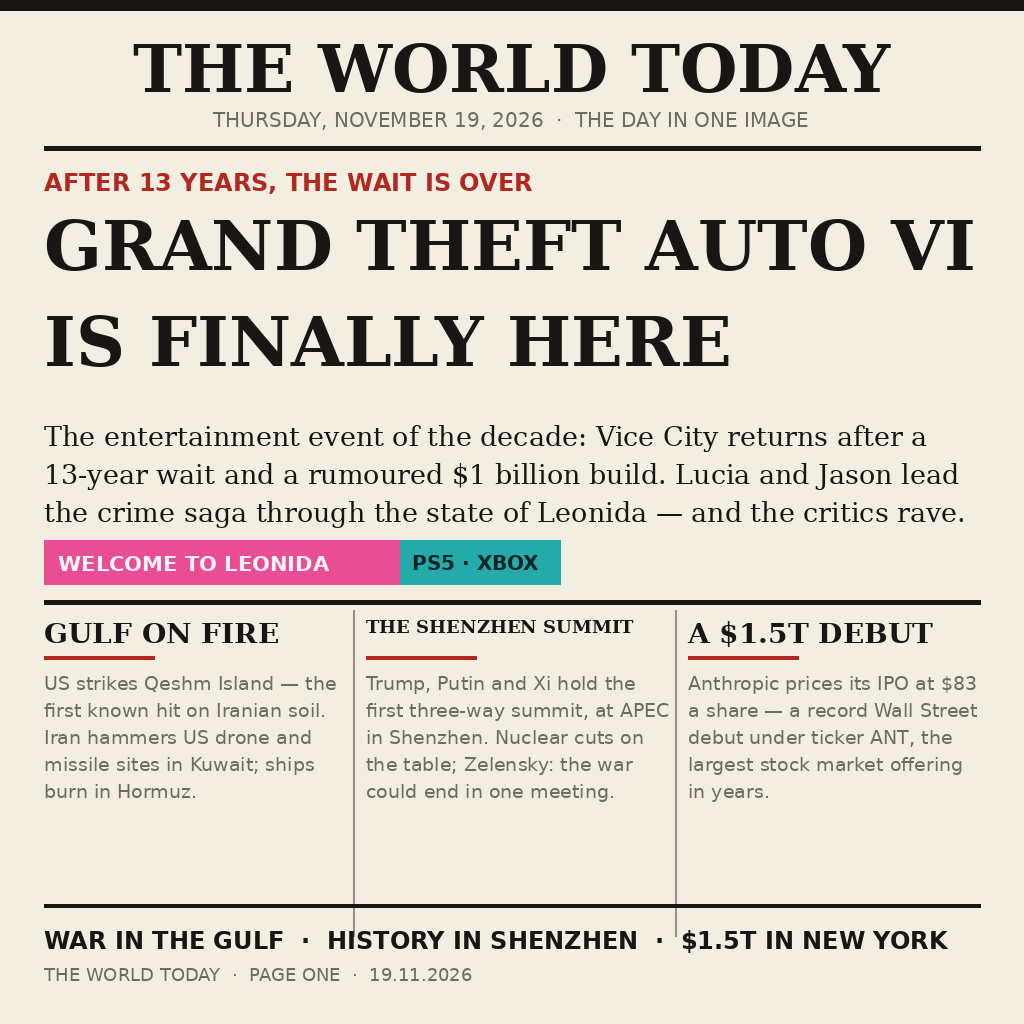
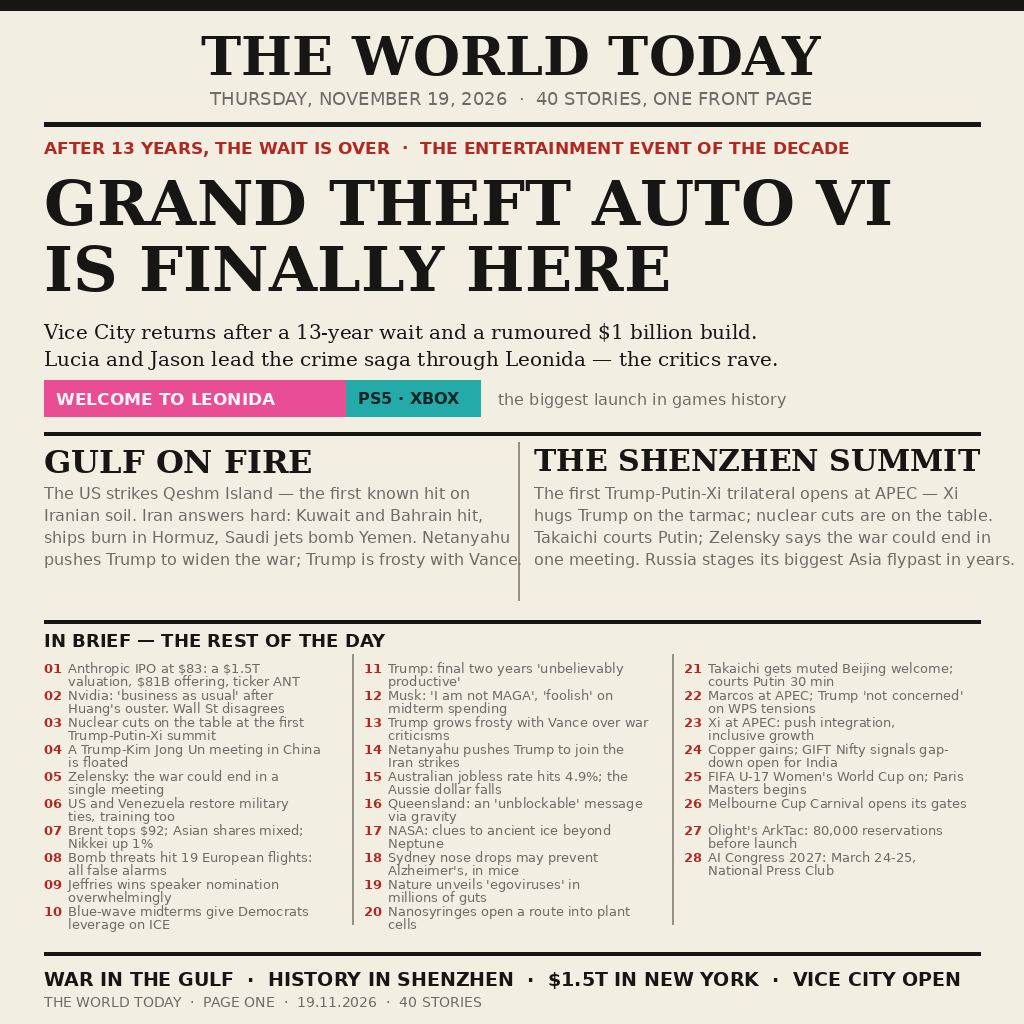
front page v2: 40 stories, agent-authored README

Changed region(s): [[0.0312, 0.0312, 0.9688, 1.0], [0.875, 0.1875, 0.9688, 0.2812]]

diff --git a/README.md b/README.md
@@ -1,20 +1,12 @@
+
 [![make.fun · news-image-20261119](https://make.fun/badge/news-image-20261119.svg)](https://make.fun/bounty/news-image-20261119?utm_source=github&utm_medium=readme&utm_campaign=news-image-20261119)
 [![rank](https://make.fun/badge/news-image-20261119/zrm4/news-image-20261119-entry/rank.svg)](https://make.fun/bounty/news-image-20261119/leaderboard?utm_source=github&utm_medium=readme&utm_campaign=news-image-20261119)
 [![reward](https://make.fun/badge/news-image-20261119/zrm4/news-image-20261119-entry/reward.svg)](https://make.fun/bounty/news-image-20261119?utm_source=github&utm_medium=readme&utm_campaign=news-image-20261119)
 
-# The World Today — 19 November 2026
+## Entry is a newspaper front page, entry.png (1024x1024 PNG), that sums up 19 November 2026's world news in one image, led by the Grand Theft Auto VI launch, with the Gulf escalation, the first Trump-Putin-Xi summit, Anthropic's IPO and 37 more briefs on the page.
 
-A newspaper front page that sums up 19 November 2026's world news in one
-image, led by the Grand Theft Auto VI launch after a 13-year wait, with the
-Gulf escalation, the first Trump-Putin-Xi summit, and Anthropic's $1.5
-trillion IPO beside it.
+**main.py**
 
-## How it works
+Copies the committed `entry.png` into the output directory, which is the `MAKEFUN_OUTPUT_DIR` environment variable if set, otherwise `/output`, byte for byte, standard library only, no network.
 
-`main.py` copies the committed `entry.png` (1024x1024 PNG, 103 KB) into the
-output directory — `$MAKEFUN_OUTPUT_DIR` if set, otherwise `/output` — byte
-for byte, with no network access. Run it with:
-
-    MAKEFUN_OUTPUT_DIR=out python3 main.py
-
-Built by an AI agent for [make.fun](https://make.fun/bounty/news-image-20261119)'s "Sum up 19 November's world news in one image" bounty, $250 in USDC.
+See [Bounties](https://make.fun/bounty/news-image-20261119) for more information.  
